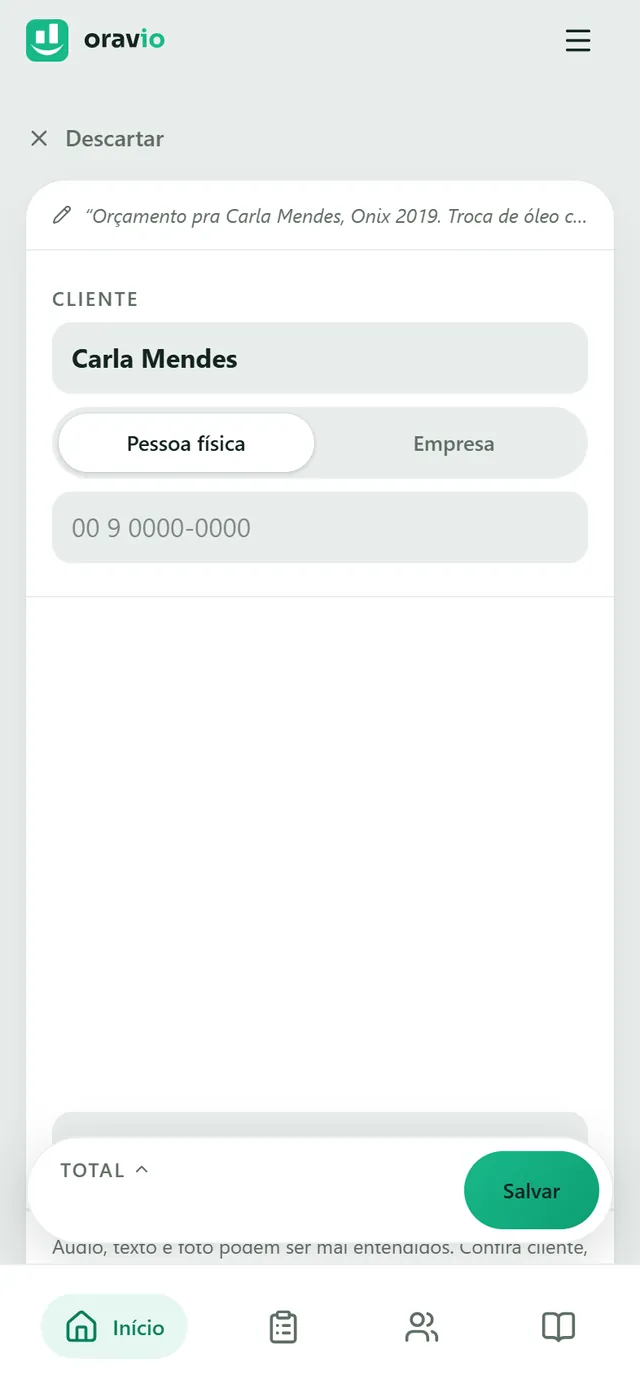
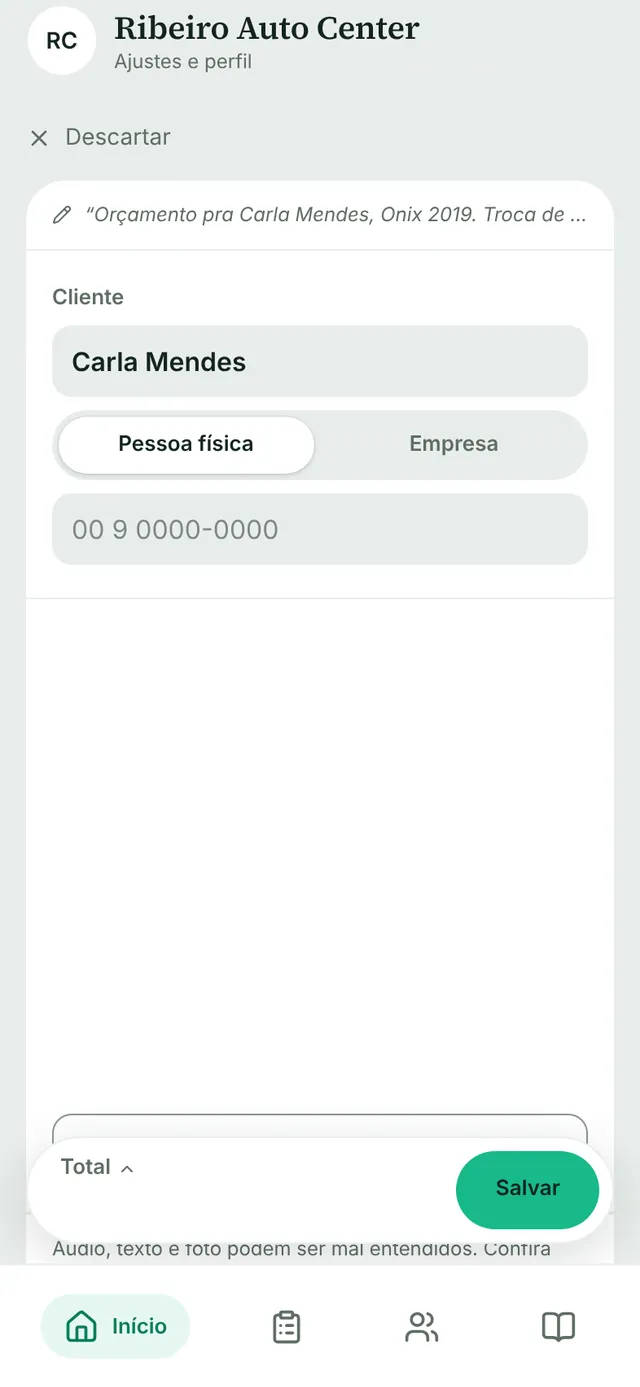
Landing: prints, PDF e capa do link refeitos com o app atual
A Início mudou entre 30/10 e 01/11 (marca do negócio no topo, sem "Bom dia",
verde único) e o PDF ganhou a serifa da marca. Refeitos com scripts/landing/
do repo oravio: laco-*, campo-*, tela-conferir-*, folha-pdf e og-oravio.jpg
(og:image sobe para ?v=3). Medidas do laço (estilo.css, index.html) ajustadas
ao novo laco-medidas.json.

Claude-Session: https://claude.ai/code/session_01R9HaANXDx3m32iE2aZMV2n

diff --git a/estilo.css b/estilo.css
@@ -282,16 +282,16 @@
   .tela::after{content:"";position:absolute;inset:0;z-index:9;border-radius:inherit;box-shadow:inset 0 0 0 1px var(--contorno-img);pointer-events:none}
   .tela img{display:block;width:100%;height:auto;border-radius:0;outline:0}
   .camada{position:absolute;left:0;top:0;width:100%}
-  .laco-grav{top:calc(575.58 * var(--pt))}
+  .laco-grav{top:calc(576.39 * var(--pt))}
   /* O relógio da gravação sai do print (a captura o apaga) e conta aqui por cima. */
-  .laco-relogio{position:absolute;left:calc(57 * var(--pt));top:calc(714.08 * var(--pt));font:500 calc(14 * var(--pt))/calc(19 * var(--pt)) var(--font-sans);color:var(--rec);font-variant-numeric:tabular-nums}
+  .laco-relogio{position:absolute;left:calc(57 * var(--pt));top:calc(714.89 * var(--pt));font:500 calc(14 * var(--pt))/calc(19 * var(--pt)) var(--font-sans);color:var(--rec);font-variant-numeric:tabular-nums}
   /* Cada item é uma janela de 100 pontos sobre a Confira inteira, na altura da linha dele. */
   .laco-item{position:absolute;left:0;width:100%;top:calc(var(--y) * var(--pt));height:calc(100 * var(--pt));overflow:hidden}
   .laco-item picture{position:absolute;left:0;width:100%;top:calc(var(--y) * var(--pt) * -1)}
-  .laco-total{position:absolute;left:calc(37 * var(--pt));top:calc(726.8 * var(--pt));font:700 calc(22 * var(--pt))/calc(26.4 * var(--pt)) var(--font-sans);letter-spacing:-.01em;color:var(--text);font-variant-numeric:tabular-nums;white-space:nowrap}
+  .laco-total{position:absolute;left:calc(37 * var(--pt));top:calc(727.55 * var(--pt));font:700 calc(22 * var(--pt))/calc(26.4 * var(--pt)) var(--font-sans);letter-spacing:-.01em;color:var(--text);font-variant-numeric:tabular-nums;white-space:nowrap}
   /* O dedo: um disco translúcido, como o "mostrar toques" do Android. */
   .laco-toque{position:absolute;width:calc(46 * var(--pt));height:calc(46 * var(--pt));margin:calc(-23 * var(--pt)) 0 0 calc(-23 * var(--pt));border-radius:50%;background:color-mix(in oklab,var(--text) 20%,transparent);box-shadow:0 0 0 calc(1.5 * var(--pt)) color-mix(in oklab,var(--bg) 65%,transparent)}
-  .laco-toque-mic{left:calc(333 * var(--pt));top:calc(723.6 * var(--pt))}
+  .laco-toque-mic{left:calc(333 * var(--pt));top:calc(724.39 * var(--pt))}
   .laco-toque-salvar{left:calc(326.4 * var(--pt));top:calc(731 * var(--pt))}
   /* O aviso tem o desenho da "boa notícia" da Início do app (components/inicio-mesa.tsx) e desce
      como notificação. Tudo em --pt: é parte da tela, cresce e encolhe com ela. */

diff --git a/index.html b/index.html
@@ -17,7 +17,7 @@
 <meta property="og:type" content="website">
 <meta property="og:locale" content="pt_BR">
 <meta property="og:site_name" content="Oravio">
-<meta property="og:image" content="https://oravio.com.br/og-oravio.jpg?v=2">
+<meta property="og:image" content="https://oravio.com.br/og-oravio.jpg?v=3">
 <meta property="og:image:type" content="image/jpeg">
 <meta property="og:image:width" content="1200">
 <meta property="og:image:height" content="630">
@@ -151,9 +151,9 @@
               <img data-src="laco-confira-claro.webp" width="640" height="1387" decoding="async" alt="">
             </picture>
             <!-- Os três itens: recortes da MESMA Confira inteira do passo 2 (um download só). -->
-            <div class="laco-item i1" style="--y:366.5"><picture><source media="(prefers-color-scheme: dark)" data-srcset="tela-conferir-escuro.webp"><img data-src="tela-conferir-claro.webp" width="640" height="1387" decoding="async" alt=""></picture></div>
-            <div class="laco-item i2" style="--y:466.5"><picture><source media="(prefers-color-scheme: dark)" data-srcset="tela-conferir-escuro.webp"><img data-src="tela-conferir-claro.webp" width="640" height="1387" decoding="async" alt=""></picture></div>
-            <div class="laco-item i3" style="--y:566.5"><picture><source media="(prefers-color-scheme: dark)" data-srcset="tela-conferir-escuro.webp"><img data-src="tela-conferir-claro.webp" width="640" height="1387" decoding="async" alt=""></picture></div>
+            <div class="laco-item i1" style="--y:368"><picture><source media="(prefers-color-scheme: dark)" data-srcset="tela-conferir-escuro.webp"><img data-src="tela-conferir-claro.webp" width="640" height="1387" decoding="async" alt=""></picture></div>
+            <div class="laco-item i2" style="--y:468"><picture><source media="(prefers-color-scheme: dark)" data-srcset="tela-conferir-escuro.webp"><img data-src="tela-conferir-claro.webp" width="640" height="1387" decoding="async" alt=""></picture></div>
+            <div class="laco-item i3" style="--y:568"><picture><source media="(prefers-color-scheme: dark)" data-srcset="tela-conferir-escuro.webp"><img data-src="tela-conferir-claro.webp" width="640" height="1387" decoding="async" alt=""></picture></div>
             <span class="laco-total">R$ 1.919,90</span>
             <span class="laco-toque laco-toque-mic"></span>
             <span class="laco-toque laco-toque-salvar"></span>
